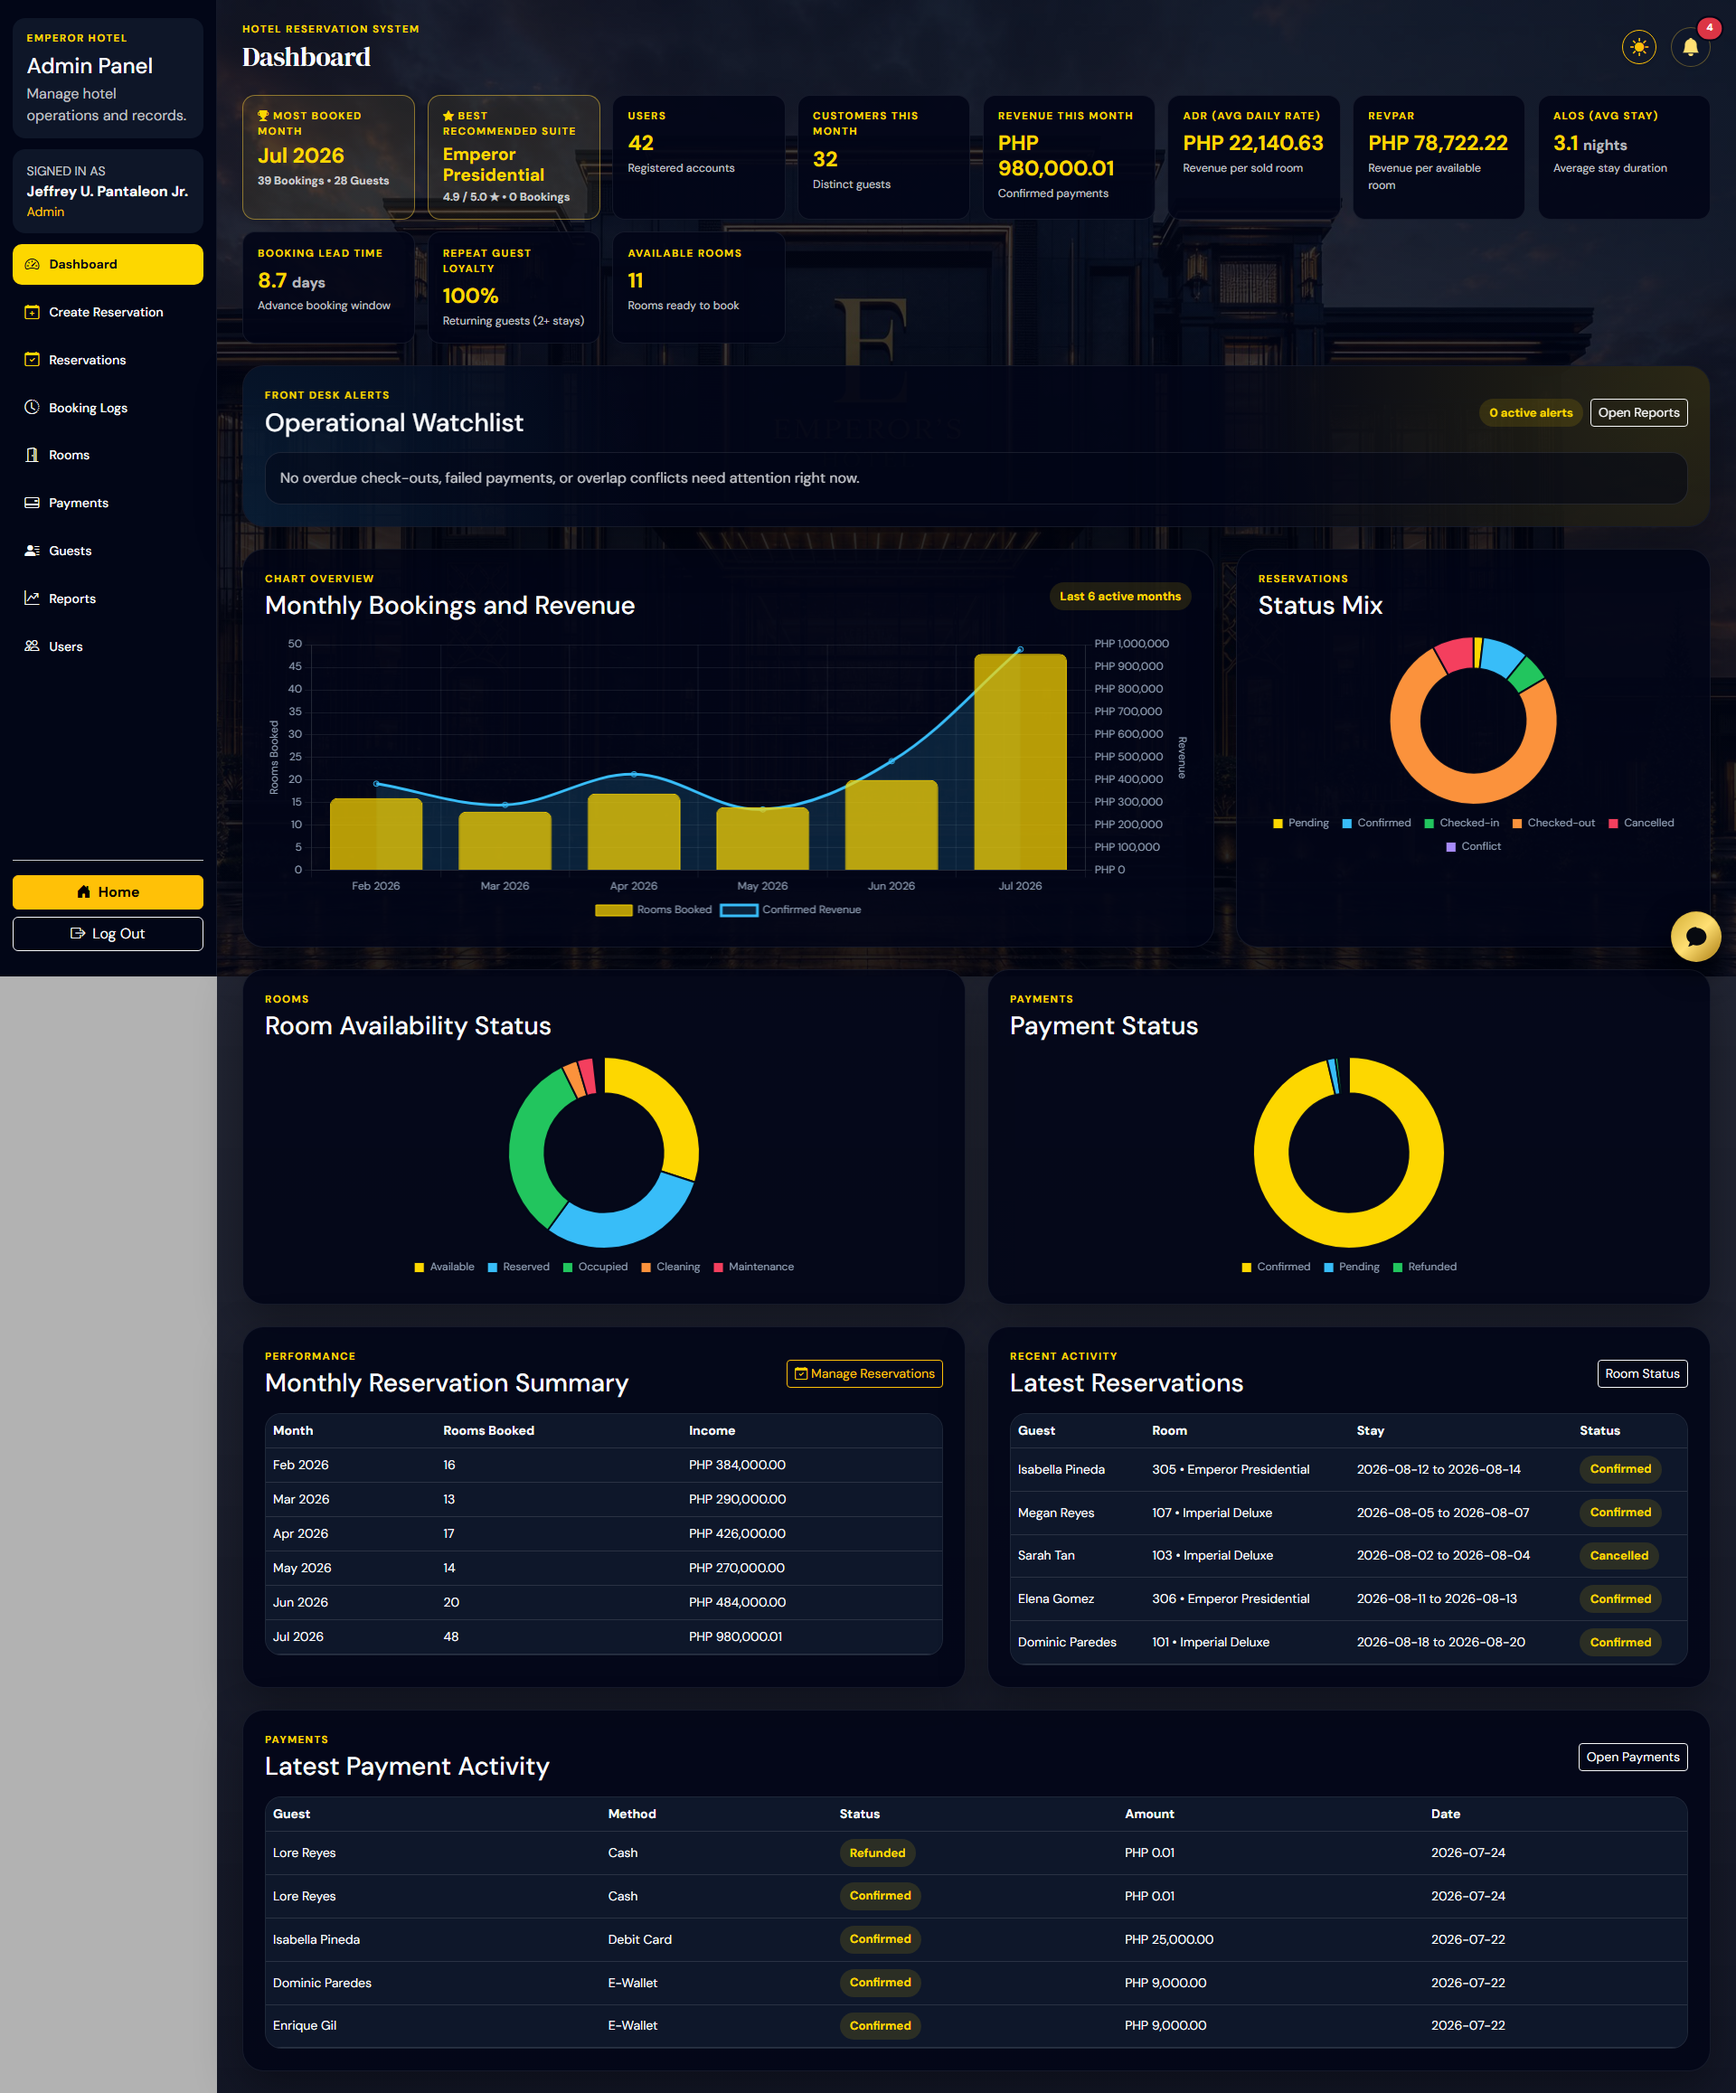
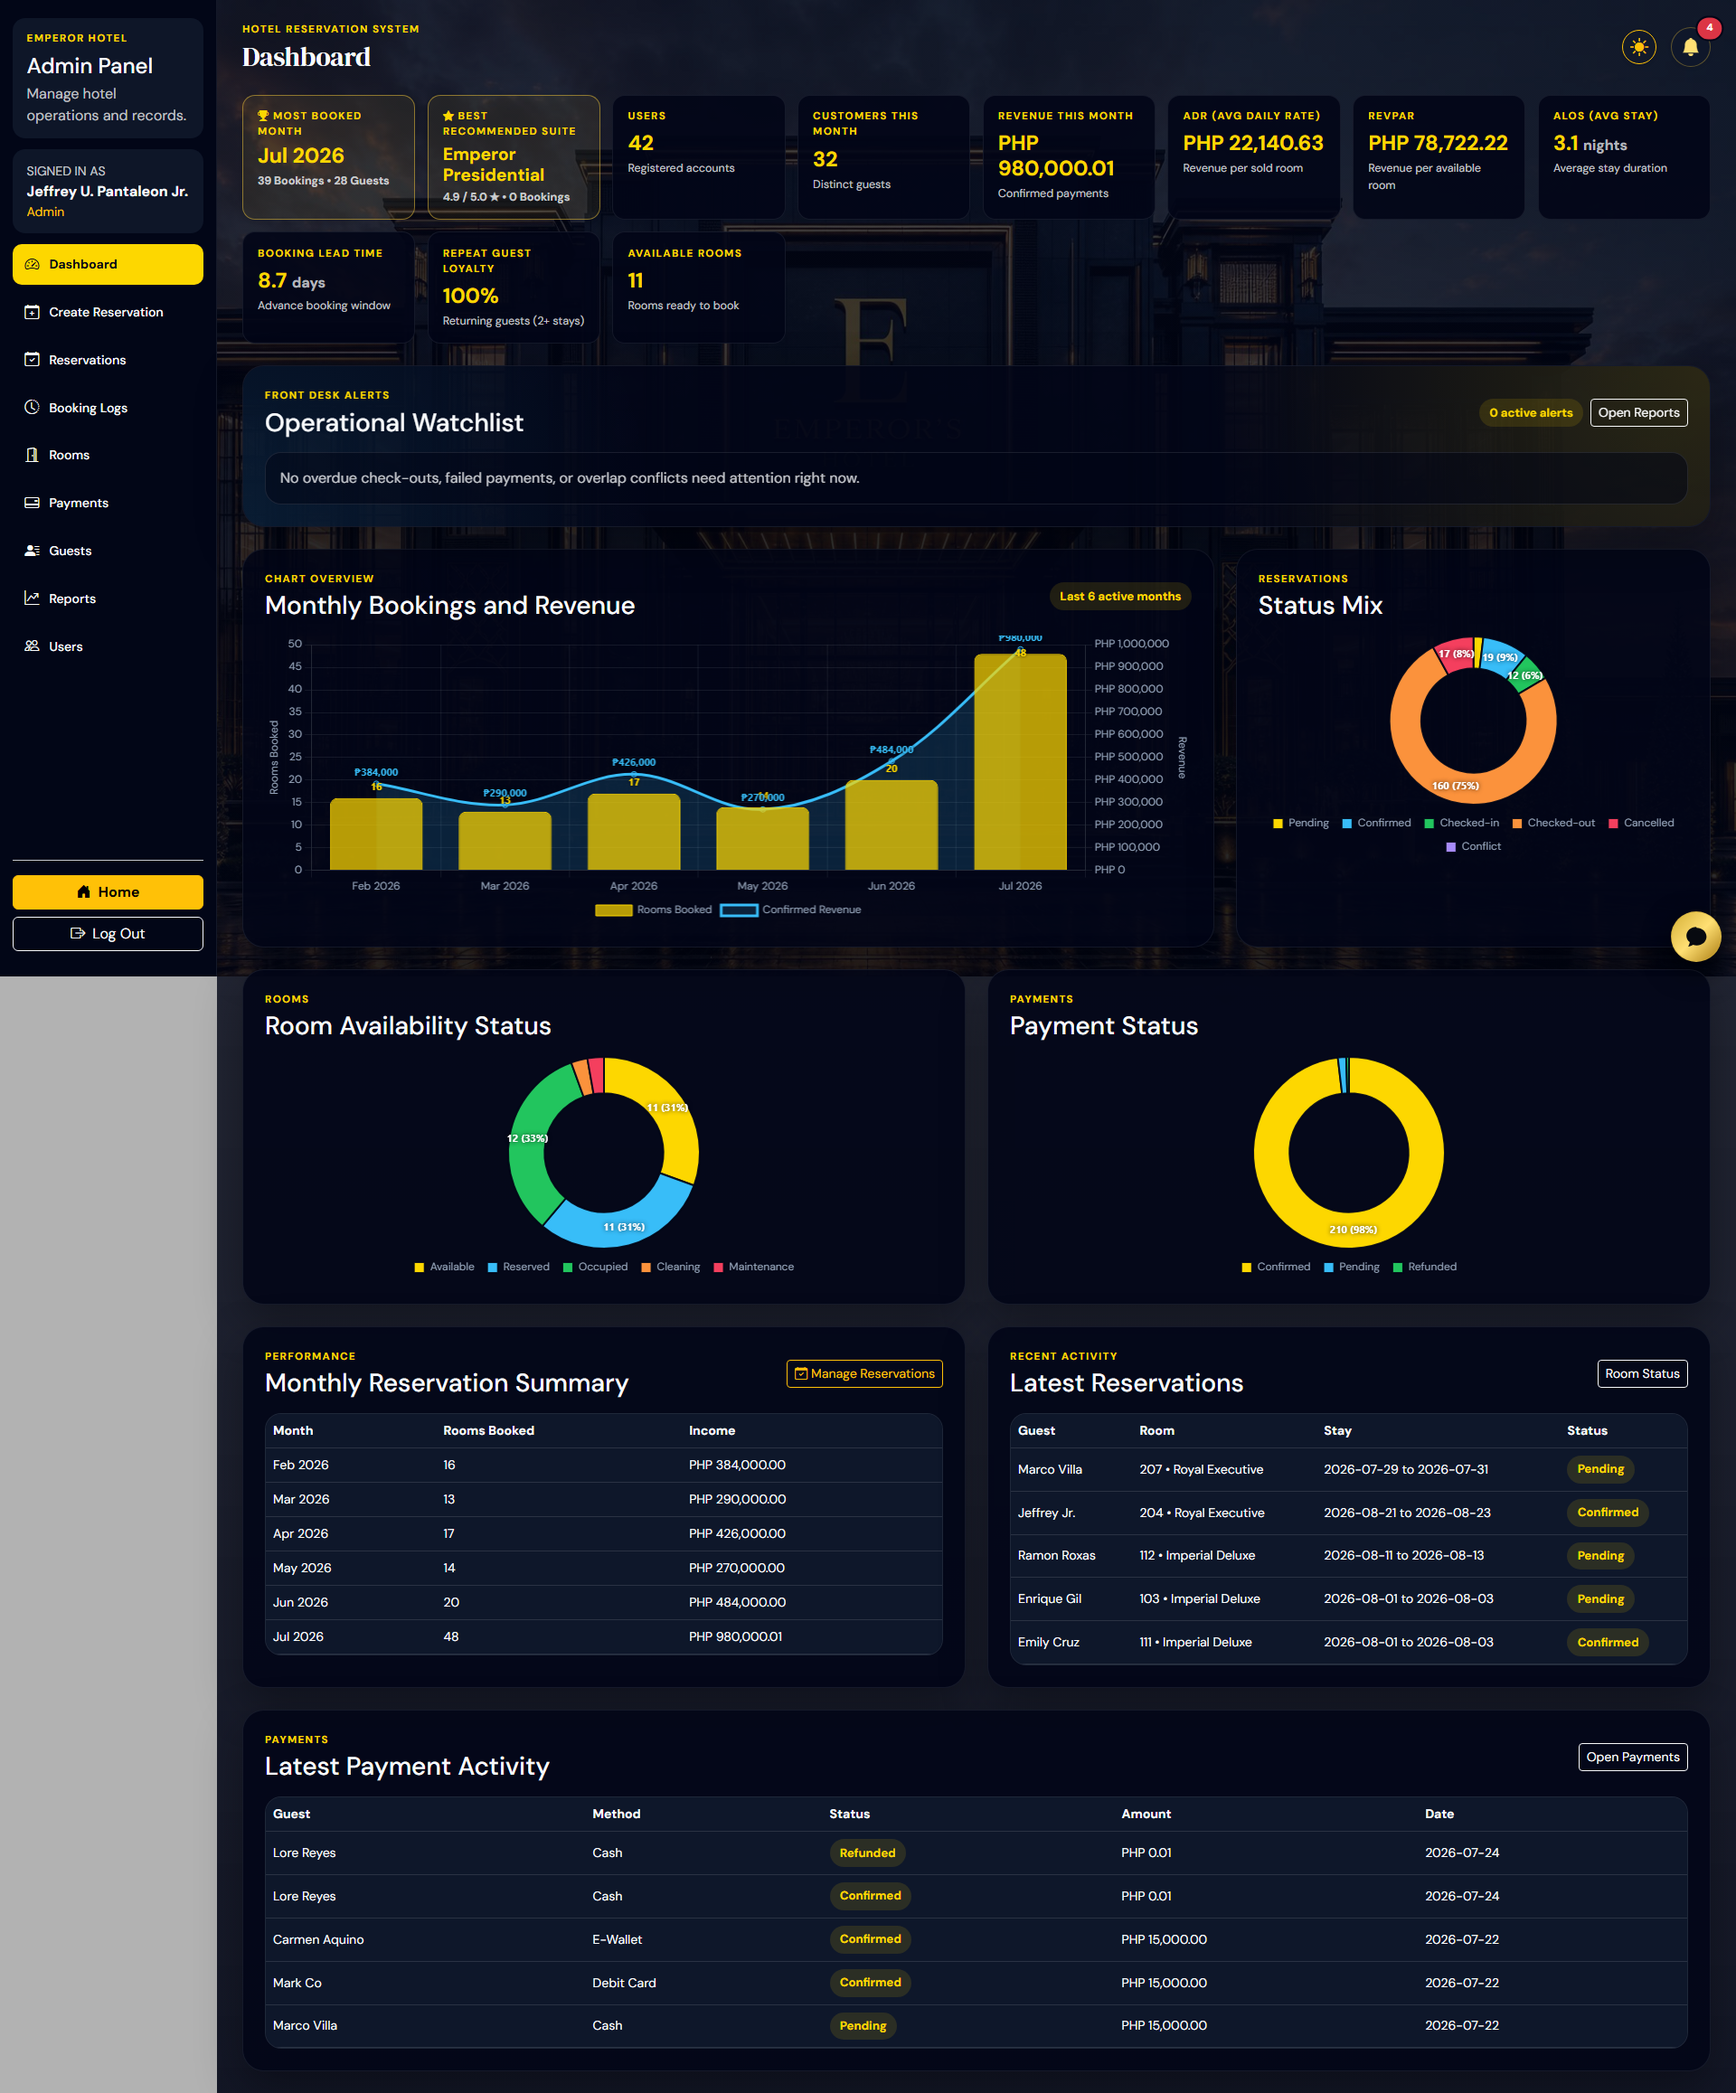
feat: render data numbers directly on line, bar, and doughnut charts in reports and dashboard

diff --git a/public/admin/reports.php b/public/admin/reports.php
@@ -326,11 +326,102 @@ document.addEventListener('DOMContentLoaded', () => {
     Chart.defaults.borderColor = isLightMode ? 'rgba(15, 23, 42, 0.08)' : 'rgba(248, 250, 252, 0.08)';
     Chart.defaults.font.family = "'Outfit', 'Segoe UI', system-ui, sans-serif";
 
+    // Value Labels Plugin for Line and Bar Charts
+    const emperorValuePlugin = {
+        id: 'emperorValueLabels',
+        afterDatasetsDraw(chart) {
+            const { ctx } = chart;
+            const isLight = document.documentElement.classList.contains('light-mode');
+
+            chart.data.datasets.forEach((dataset, datasetIndex) => {
+                const meta = chart.getDatasetMeta(datasetIndex);
+                if (meta.hidden) return;
+
+                meta.data.forEach((element, index) => {
+                    const value = dataset.data[index];
+                    if (value === null || value === undefined || value === 0) return;
+
+                    ctx.save();
+                    ctx.font = '700 11px "Outfit", "Segoe UI", system-ui, sans-serif';
+                    ctx.textAlign = 'center';
+                    ctx.textBaseline = 'middle';
+
+                    if (chart.config.type === 'line') {
+                        const text = String(value);
+                        const x = element.x;
+                        const y = element.y - 12;
+                        ctx.fillStyle = dataset.borderColor || (isLight ? '#0f172a' : '#fdd700');
+                        ctx.shadowColor = isLight ? 'rgba(255,255,255,0.9)' : 'rgba(0,0,0,0.9)';
+                        ctx.shadowBlur = 4;
+                        ctx.fillText(text, x, y);
+                    } else if (chart.config.type === 'bar') {
+                        if (chart.options.indexAxis === 'y') {
+                            const text = typeof value === 'number' ? value.toFixed(1) + ' ★' : String(value);
+                            const x = Math.min(element.x + 22, chart.chartArea.right - 10);
+                            const y = element.y;
+                            ctx.fillStyle = isLight ? '#0284c7' : '#38bdf8';
+                            ctx.textAlign = 'left';
+                            ctx.shadowColor = isLight ? 'rgba(255,255,255,0.8)' : 'rgba(0,0,0,0.8)';
+                            ctx.shadowBlur = 3;
+                            ctx.fillText(text, x, y);
+                        } else {
+                            const text = typeof value === 'number' ? value.toLocaleString() : String(value);
+                            const x = element.x;
+                            const y = Math.max(element.y - 12, chart.chartArea.top + 10);
+                            ctx.fillStyle = isLight ? '#b45309' : '#fdd700';
+                            ctx.shadowColor = isLight ? 'rgba(255,255,255,0.8)' : 'rgba(0,0,0,0.8)';
+                            ctx.shadowBlur = 3;
+                            ctx.fillText(text, x, y);
+                        }
+                    }
+                    ctx.restore();
+                });
+            });
+        }
+    };
+
+    // Doughnut Labels Plugin
+    const emperorDoughnutPlugin = {
+        id: 'emperorDoughnutLabels',
+        afterDatasetsDraw(chart) {
+            if (chart.config.type !== 'doughnut' && chart.config.type !== 'pie') return;
+            const { ctx } = chart;
+            const dataset = chart.data.datasets[0];
+            if (!dataset || !dataset.data) return;
+
+            const total = dataset.data.reduce((a, b) => a + Number(b || 0), 0);
+            const meta = chart.getDatasetMeta(0);
+            if (meta.hidden) return;
+
+            meta.data.forEach((element, index) => {
+                const value = Number(dataset.data[index] || 0);
+                if (!value || total <= 0) return;
+
+                const percent = Math.round((value / total) * 100);
+                if (percent < 3) return;
+
+                const position = element.tooltipPosition();
+                ctx.save();
+                ctx.font = '700 11px "Outfit", "Segoe UI", system-ui, sans-serif';
+                ctx.fillStyle = '#ffffff';
+                ctx.textAlign = 'center';
+                ctx.textBaseline = 'middle';
+                ctx.shadowColor = 'rgba(0, 0, 0, 0.9)';
+                ctx.shadowBlur = 5;
+
+                const text = '₱' + Math.round(value).toLocaleString() + ' (' + percent + '%)';
+                ctx.fillText(text, position.x, position.y);
+                ctx.restore();
+            });
+        }
+    };
+
     // 1. Demand Trend Line Chart
     const trendCtx = document.getElementById('trendLineChart')?.getContext('2d');
     if (trendCtx) {
         new Chart(trendCtx, {
             type: 'line',
+            plugins: [emperorValuePlugin],
             data: {
                 labels: <?= $trendDates ?>,
                 datasets: [
@@ -384,6 +475,7 @@ document.addEventListener('DOMContentLoaded', () => {
     if (paymentCtx) {
         new Chart(paymentCtx, {
             type: 'doughnut',
+            plugins: [emperorDoughnutPlugin],
             data: {
                 labels: <?= $paymentMethods ?>,
                 datasets: [{
@@ -399,7 +491,7 @@ document.addEventListener('DOMContentLoaded', () => {
                 plugins: {
                     legend: { position: 'bottom', labels: { boxWidth: 12 } }
                 },
-                cutout: '65%'
+                cutout: '60%'
             }
         });
     }
@@ -409,6 +501,7 @@ document.addEventListener('DOMContentLoaded', () => {
     if (occupancyCtx) {
         new Chart(occupancyCtx, {
             type: 'bar',
+            plugins: [emperorValuePlugin],
             data: {
                 labels: <?= $roomTypes ?>,
                 datasets: [{
@@ -437,6 +530,7 @@ document.addEventListener('DOMContentLoaded', () => {
     if (ratingsCtx) {
         new Chart(ratingsCtx, {
             type: 'bar',
+            plugins: [emperorValuePlugin],
             data: {
                 labels: <?= $ratingTypes ?>,
                 datasets: [{

diff --git a/public/admin/dashboard.php b/public/admin/dashboard.php
@@ -442,12 +442,89 @@ const hasValues = (values) => values.some((value) => Number(value) > 0);const is
 Chart.defaults.color = isLightMode ? '#334155' : '#94a3b8';
 Chart.defaults.borderColor = isLightMode ? 'rgba(15, 23, 42, 0.08)' : 'rgba(248, 250, 252, 0.08)';
 
+const emperorValuePlugin = {
+    id: 'emperorValueLabels',
+    afterDatasetsDraw(chart) {
+        const { ctx } = chart;
+        const isLight = document.documentElement.classList.contains('light-mode');
+
+        chart.data.datasets.forEach((dataset, datasetIndex) => {
+            const meta = chart.getDatasetMeta(datasetIndex);
+            if (meta.hidden) return;
+
+            meta.data.forEach((element, index) => {
+                const value = dataset.data[index];
+                if (value === null || value === undefined || value === 0) return;
+
+                ctx.save();
+                ctx.font = '700 11px "Outfit", "Segoe UI", system-ui, sans-serif';
+                ctx.textAlign = 'center';
+                ctx.textBaseline = 'middle';
+
+                if (chart.config.type === 'line' || dataset.type === 'line') {
+                    const text = typeof value === 'number' && value > 1000 ? '₱' + Math.round(value).toLocaleString() : String(value);
+                    const x = element.x;
+                    const y = element.y - 12;
+                    ctx.fillStyle = dataset.borderColor || (isLight ? '#0284c7' : '#38bdf8');
+                    ctx.shadowColor = isLight ? 'rgba(255,255,255,0.9)' : 'rgba(0,0,0,0.9)';
+                    ctx.shadowBlur = 4;
+                    ctx.fillText(text, x, y);
+                } else if (chart.config.type === 'bar' || dataset.type === 'bar') {
+                    const text = typeof value === 'number' ? value.toLocaleString() : String(value);
+                    const x = element.x;
+                    const y = Math.max(element.y - 12, chart.chartArea.top + 10);
+                    ctx.fillStyle = isLight ? '#b45309' : '#fdd700';
+                    ctx.shadowColor = isLight ? 'rgba(255,255,255,0.8)' : 'rgba(0,0,0,0.8)';
+                    ctx.shadowBlur = 3;
+                    ctx.fillText(text, x, y);
+                }
+                ctx.restore();
+            });
+        });
+    }
+};
+
+const emperorDoughnutPlugin = {
+    id: 'emperorDoughnutLabels',
+    afterDatasetsDraw(chart) {
+        if (chart.config.type !== 'doughnut' && chart.config.type !== 'pie') return;
+        const { ctx } = chart;
+        const dataset = chart.data.datasets[0];
+        if (!dataset || !dataset.data) return;
+
+        const total = dataset.data.reduce((a, b) => a + Number(b || 0), 0);
+        const meta = chart.getDatasetMeta(0);
+        if (meta.hidden) return;
+
+        meta.data.forEach((element, index) => {
+            const value = Number(dataset.data[index] || 0);
+            if (!value || total <= 0) return;
+
+            const percent = Math.round((value / total) * 100);
+            if (percent < 4) return;
+
+            const position = element.tooltipPosition();
+            ctx.save();
+            ctx.font = '700 11px "Outfit", "Segoe UI", system-ui, sans-serif';
+            ctx.fillStyle = '#ffffff';
+            ctx.textAlign = 'center';
+            ctx.textBaseline = 'middle';
+            ctx.shadowColor = 'rgba(0, 0, 0, 0.85)';
+            ctx.shadowBlur = 5;
+
+            ctx.fillText(value + ' (' + percent + '%)', position.x, position.y);
+            ctx.restore();
+        });
+    }
+};
+
 const renderDoughnutChart = (canvasId, chartData, label) => {
     const canvas = document.getElementById(canvasId);
     if (!canvas) return;
 
     new Chart(canvas, {
         type: 'doughnut',
+        plugins: [emperorDoughnutPlugin],
         data: {
             labels: chartData.labels,
             datasets: [{
@@ -480,6 +557,7 @@ const monthlyCanvas = document.getElementById('monthlyPerformanceChart');
 
 if (monthlyCanvas) {
     new Chart(monthlyCanvas, {
+        plugins: [emperorValuePlugin],
         data: {
             labels: dashboardChartData.monthly.labels,
             datasets: [
